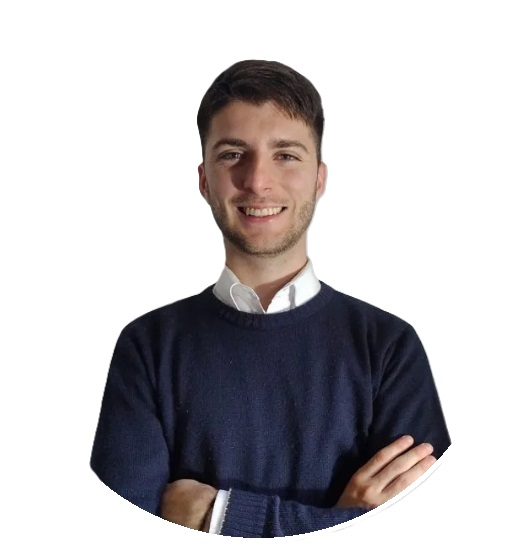
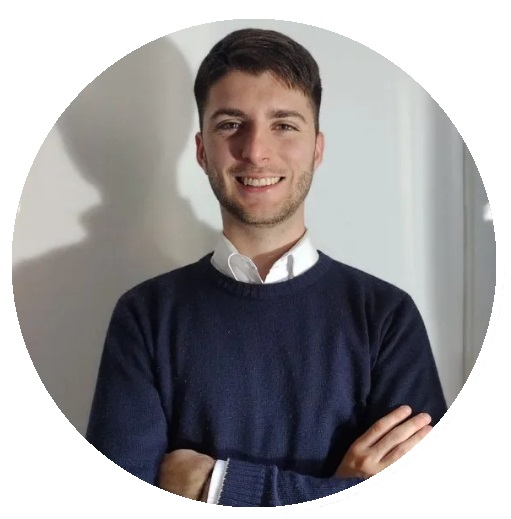
cards personal - AboutPage

diff --git a/client/src/pages/AboutPage.jsx b/client/src/pages/AboutPage.jsx
@@ -4,13 +4,14 @@ import Col from 'react-bootstrap/Col';
 import Image from 'react-bootstrap/Image';
 
 import '../css/aboutPage.css';
+import CardsPersonas from '../components/CardsPersonas';
 
 export const AboutPage = () => {
   return (
     <section className='section container-fluid aboutPage'>
       <Container className='cedema-head'>
         <Row className='cedema-description'>
-          <Col xs={12} md={6}>
+          <Col xs={{ order: 1 }} md={{ order: 1 }} >
             <h3 className='section-title row encode-sans-condensed-regular' data-aos="flip-up">¿Quiénes somos?</h3>
             <p className='encode-sans-condensed-light' data-aos="fade-up">
               Centro de Debate Multidisciplinario Argentino (CEDEMA) es una comunidad comprometida con el análisis y el debate de los asuntos que suceden al interior de nuestro país como en cuestiones y hechos que tienen lugar en todo el mundo, conformado, por estudiantes, graduados, e intelectuales, de distintas disciplinas y universidades, con diferentes puntos de vistas.
@@ -20,16 +21,16 @@ export const AboutPage = () => {
               Tiene como misión crear una comunidad abierta e inclusiva que se extrapole a un debate en nuestra plataforma, moderna e integradora, centrada en la dialéctica y discusión sobre diversas temáticas debido a la pluralidad de posturas mediante el análisis crítico y argumentativo.
             </p>
           </Col>
-          <Col xs={12} md={6} >
+          <Col xs={{ order: 2 }} md={{ order: 2 }}>
             <Image src="/imgMain-AboutPage.jpg" fluid className='img-1' data-aos="fade-left"/>
           </Col>
         </Row>
-        <Row>
-          <Col xs={12} md={6}>
-            <Image src="/quienes_somos_2.jpg" fluid className='img-2' data-aos="fade-right"/>
+        <Row className='cedema-description'>
+          <Col xs={{ order: 2 }} md={{ order: 1 }}>
+            <Image src="https://i.pinimg.com/736x/19/e8/c2/19e8c2772bbd766bb39127c69ac03da1.jpg" fluid className='img-2' data-aos="fade-right"/>
           </Col>
-          <Col xs={12} md={6}>
-            <h2 className='encode-sans-condensed-regular' data-aos="flip-up">Objetivos</h2>
+          <Col xs={{ order: 1 }} md={{ order: 2 }}>
+            <h1 className='encode-sans-condensed-regular text-title' data-aos="flip-up">Objetivos</h1>
             <ul className='encode-sans-condensed-light' data-aos="fade-up">
               <li>Construir lazos que nos acerquen para enriquecernos académica, social y culturalmente. </li>
               <li>Fomentar el debate y el análisis multidisciplinario en un marco nacional e internacional. </li>
@@ -38,6 +39,23 @@ export const AboutPage = () => {
             </ul>
           </Col>
         </Row>
+        <Row className='cedema-description'>
+          
+          <Col xs={12} md={6}>
+            <h1 className='encode-sans-condensed-regular text-title' data-aos="flip-up" >Titulo</h1>
+            <p className='encode-sans-condensed-light' data-aos="fade-up">
+              Desccripcion: lorLorem ipsum dolor sit amet, consectetur adipisicing elit. Voluptate ratione debitis maiores natus inventore nisi iusto atque officiis, ad non deserunt dolore aut quia laboriosam obcaecati! Velit quibusdam quam pariatur.lorem Lorem ipsum dolor sit amet consectetur adipisicing elit. Adipisci incidunt, repellat impedit corrupti mollitia ipsam similique tempore? Mollitia repudiandae doloribus, delectus nostrum blanditiis saepe. Ab consectetur omnis voluptatem quisquam soluta!lorem Lorem ipsum dolor sit amet consectetur adipisicing elit. Possimus impedit porro, assumenda quaerat ea quo blanditiis, quas debitis suscipit magnam dolor incidunt? Modi libero sapiente hic temporibus molestias iste ipsa?
+              Desccripcion: lorLorem ipsum dolor sit amet, consectetur adipisicing elit. Voluptate ratione debitis maiores natus inventore nisi iusto atque officiis, ad non deserunt dolore aut quia laboriosam obcaecati! Velit quibusdam quam pariatur.lorem Lorem ipsum dolor sit amet consectetur adipisicing elit. Adipisci incidunt, repellat impedit corrupti mollitia ipsam similique tempore? 
+            </p>
+          </Col>
+          <Col xs={12} md={6}>
+            <Image src="/imgGrupo.jpg" fluid className='img-3' data-aos="fade-right"/>
+          </Col>
+        </Row>
+        <hr data-aos="fade-up"/>
+        <h1 className='encode-sans-condensed-regular text-title' data-aos="flip-up" >Equipo</h1>
+        <CardsPersonas/>
+        
         {/*
           <Row className="justify-content-md-center">
           <h1 className='encode-sans-condensed-regular' data-aos="flip-up">Nos conforman...</h1>

diff --git a/client/src/components/CardsPersonas.jsx b/client/src/components/CardsPersonas.jsx
@@ -1,0 +1,58 @@
+import CardPersonal from './CardPersonal';
+import Row from 'react-bootstrap/Row';
+import Col from 'react-bootstrap/Col';
+
+import '../css/card.css';
+
+function CardsPersonas() {
+    return (
+        <div className="cards-personas-container">
+            <Row className="justify-content-center g-4">
+                <Col xs={12} sm={6} md={4} lg={3}>
+                    <CardPersonal
+                        image='/img-persona1.jpg'
+                        name="Iñaki Agüero Clarembaux"
+                        role="Coordinador General"
+                    />
+                </Col>
+                <Col xs={12} sm={6} md={4} lg={3}>
+                    <CardPersonal
+                        image='/img-persona2.jpg'
+                        name="Agustina Ortega"
+                        role="Coordinadora de capital Humano y comunicación"
+                    />
+                </Col>
+                <Col xs={12} sm={6} md={4} lg={3}>
+                    <CardPersonal
+                        image='/img-persona3.jpg'
+                        name="Yesenia Motola"
+                        role="Secretaria de Proyectos"
+                    />
+                </Col>
+                <Col xs={12} sm={6} md={4} lg={3}>
+                    <CardPersonal
+                        image='/img-persona4.jpg'
+                        name="Anibal Mella"
+                        role="Área de articulación académica internacional"
+                    />
+                </Col>
+                <Col xs={12} sm={6} md={4} lg={3}>
+                    <CardPersonal
+                        image='/img-persona5.jpg'
+                        name="Valeria Delgado"
+                        role="Área de antártida y atlántico sur"
+                    />
+                </Col>
+                <Col xs={12} sm={6} md={4} lg={3}>
+                    <CardPersonal
+                        image='/img-persona6.jpg'
+                        name="Iñaki Santos"
+                        role="Secretario de relaciones institucionales"
+                    />
+                </Col>
+            </Row>
+        </div>
+    );
+}
+
+export default CardsPersonas;

diff --git a/client/src/css/aboutPage.css b/client/src/css/aboutPage.css
@@ -1,4 +1,4 @@
-.img-1{
+.img-1, .img-3{
     width:100%;
     height: 100%;
     object-fit: cover !important;
@@ -33,6 +33,32 @@
 
 }
 .text-aboutPage{
-    text-align: left;
+    text-align: center;
     font-size: xx-large;
+}
+.text-title{
+    display: inline-block;
+    position: relative;
+    text-align: center;
+    padding-bottom: 5px;
+    color: var(--space-cadet);
+}
+.text-title::before {
+    content: "";
+    position: absolute;
+    left: 0; /* si quiero que vaya de derecha a izquierda, pongo right: 0; */
+    bottom: 0;
+    width: 0;
+    height: 4px;
+    background-color: var(--cool-gray);
+    transition: width .25s ease-out;
+}
+.text-title:hover::before {
+    width: 100%;
+}
+
+@media (max-width: 768px) {
+    .cedema-description {
+        flex-direction: column !important;
+    }
 }

diff --git a/client/src/css/card.css b/client/src/css/card.css
@@ -59,6 +59,22 @@
     }
 }
 
+.card-personal{
+    text-align: center;
+    position: relative;
+    display: flex;
+    font-size: medium;
+    flex-direction: column; /* Asegura que los elementos se alineen verticalmente */
+    justify-content: center; /* Centra verticalmente */
+    align-items: center; /* Centra horizontalmente */
+    margin-bottom: 2rem;
+    border-color: white;
+}
+
+.img-personal{
+    width: 73%;
+    height: 55%;
+}
 
 .link {
     text-decoration: none; /* Elimina el subrayado */

diff --git a/client/src/components/CardPersonal.jsx b/client/src/components/CardPersonal.jsx
@@ -1,0 +1,16 @@
+import Card from 'react-bootstrap/Card';
+import '../css/card.css';
+
+function CardPersonal({image, name, role}) {
+    return (
+        <Card style={{ width: '18rem' }} className='card-personal h-100'>
+        <Card.Img variant="top" src={image} className='img-personal ' />
+        <Card.Body>
+            <Card.Text>{name}</Card.Text>
+            <Card.Title>{role}</Card.Title>
+        </Card.Body>
+        </Card>
+    );
+}
+
+export default CardPersonal;
